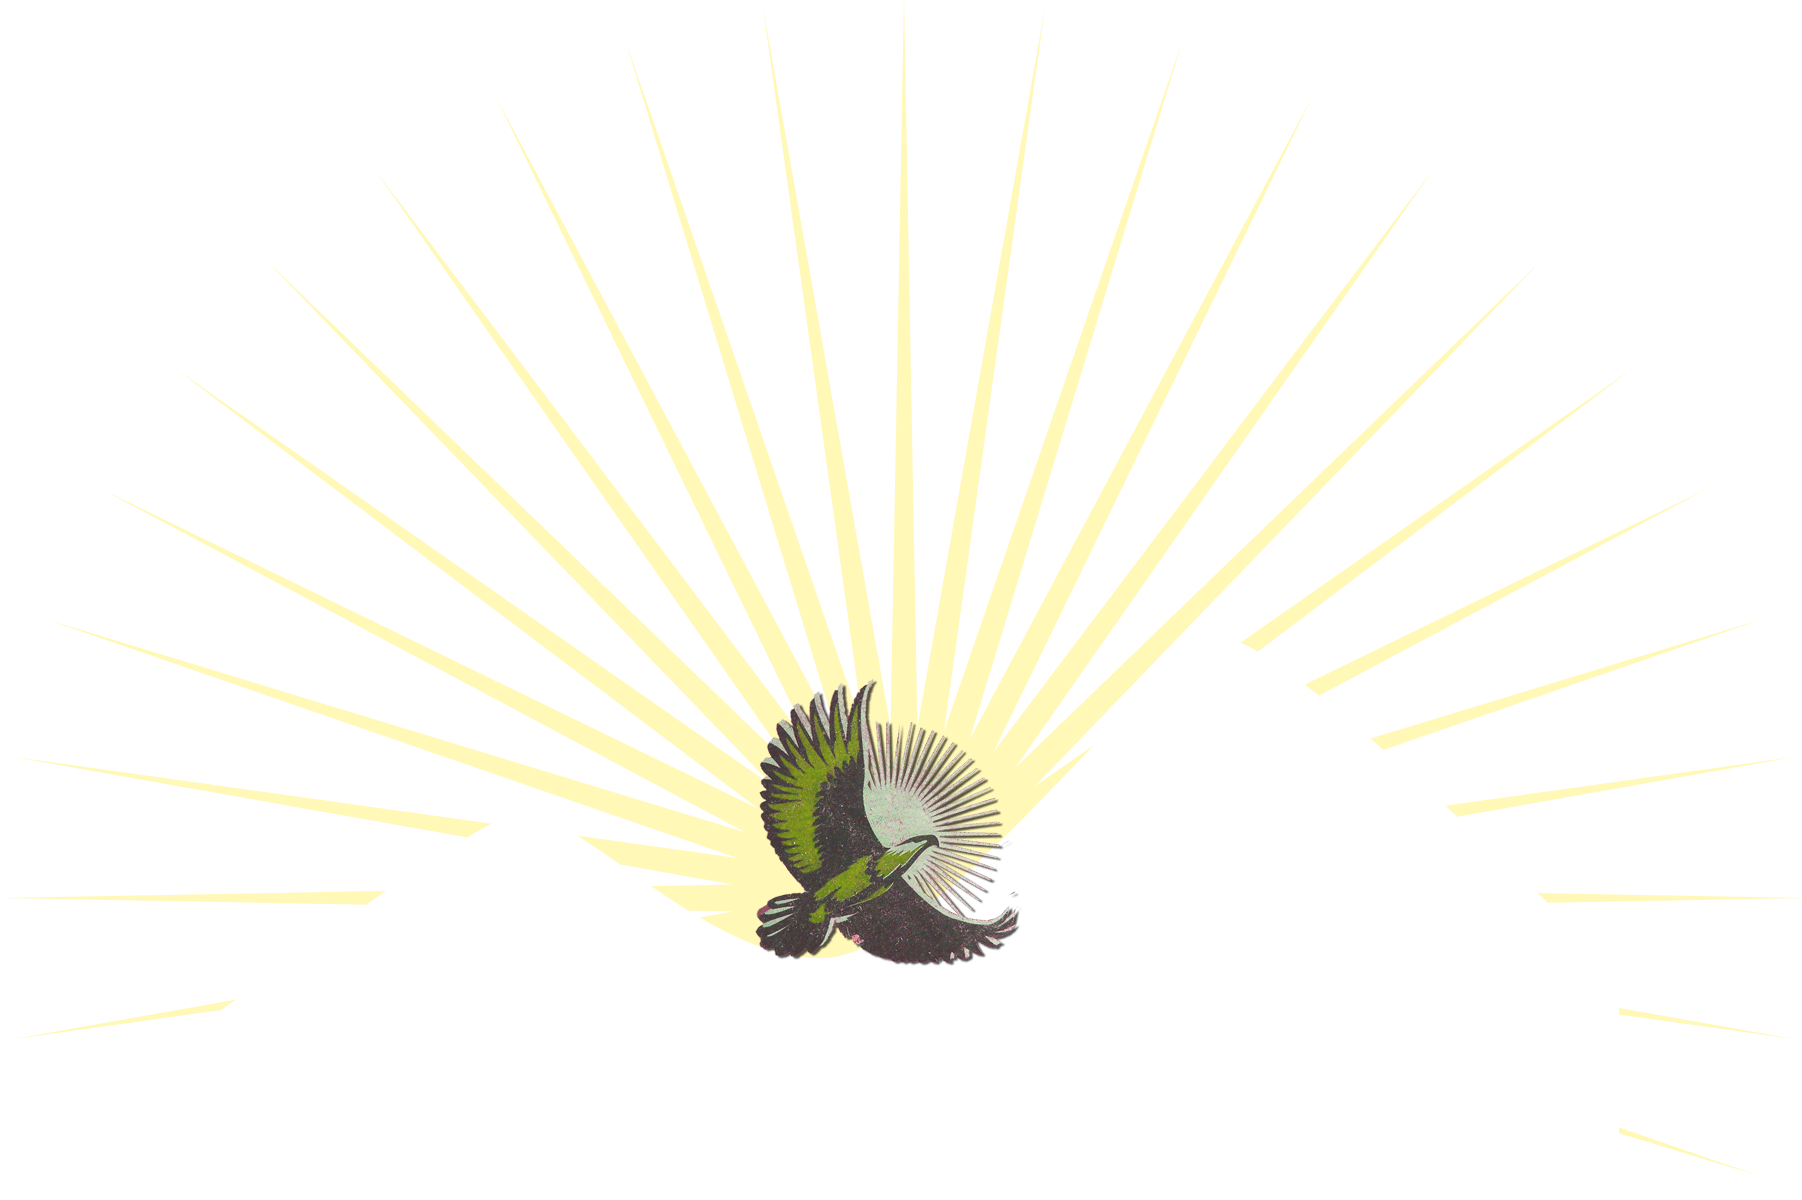
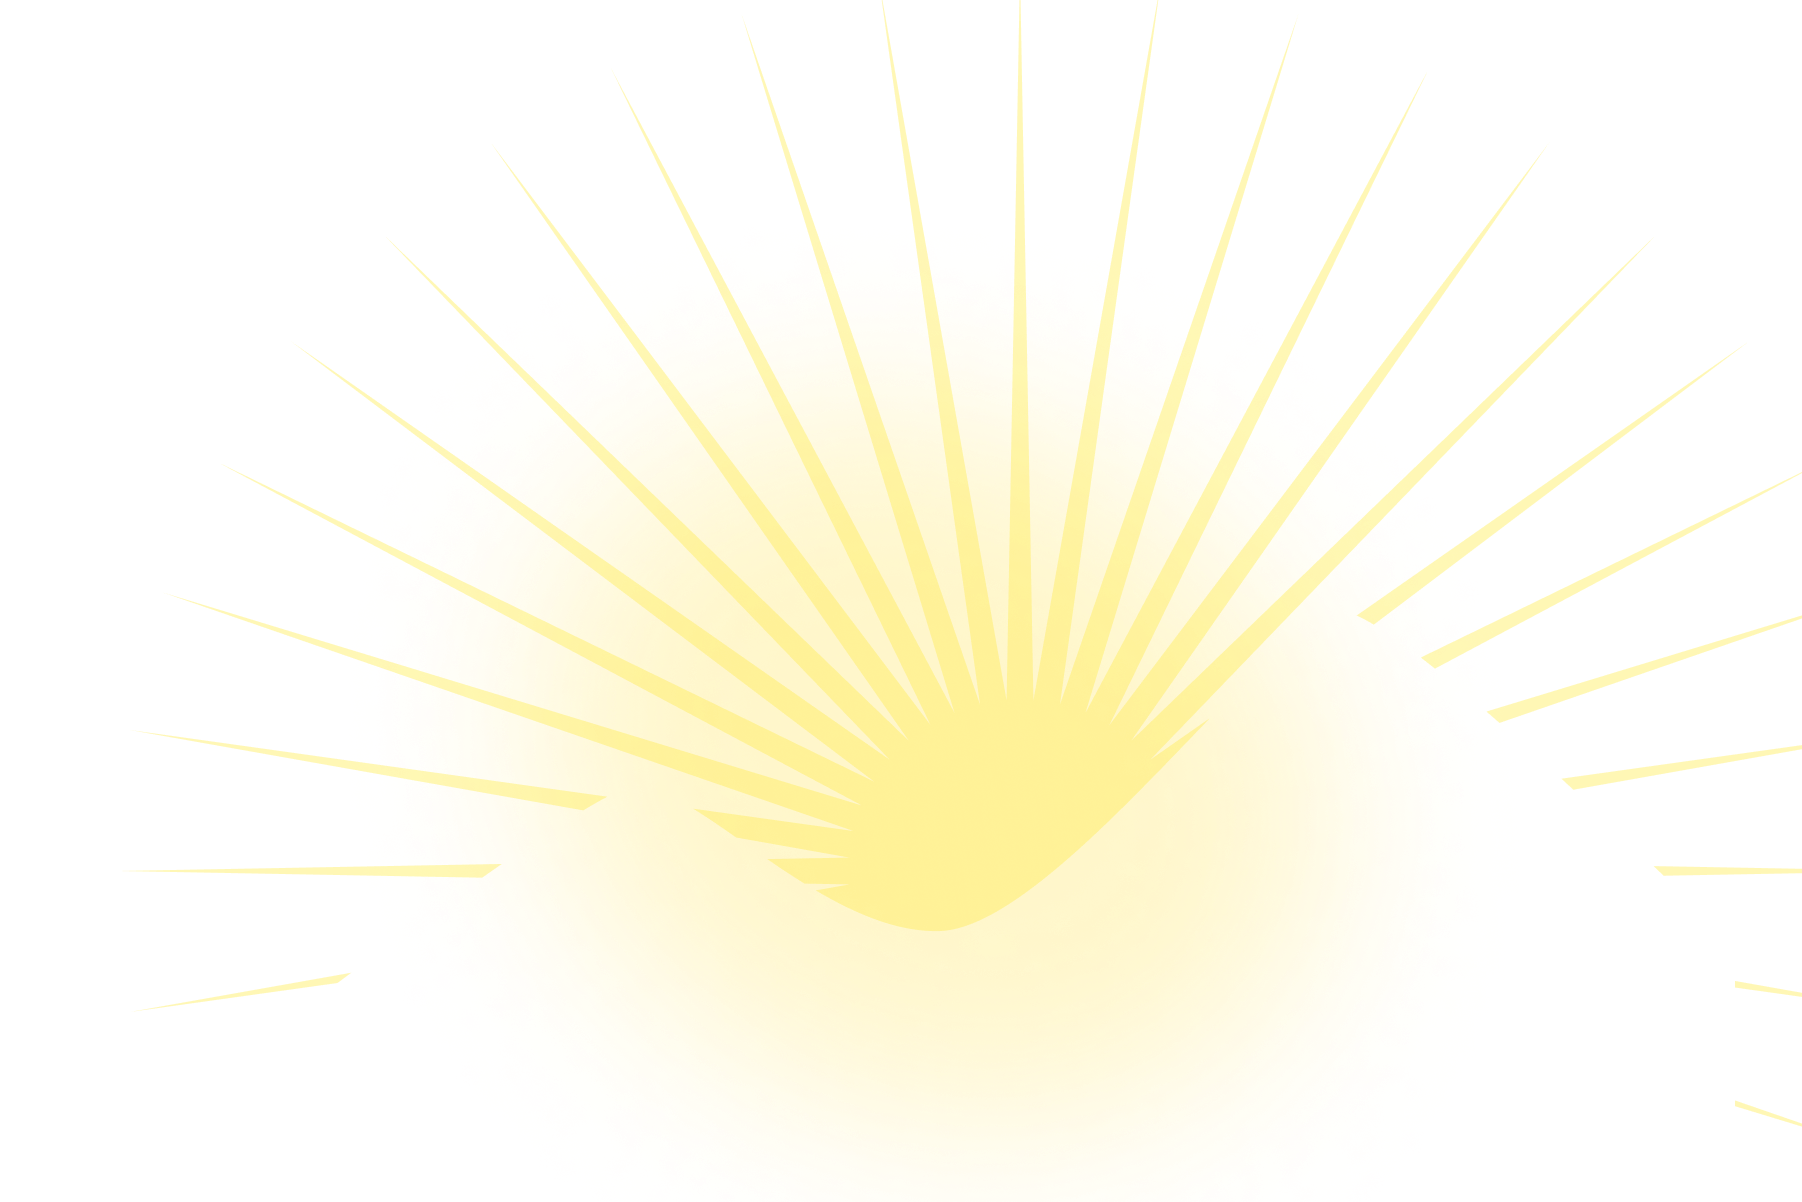
first screen adaptive

diff --git a/first-three-pages/css/original.css b/first-three-pages/css/original.css
@@ -6,8 +6,14 @@
     background:url("../img/sun-header.png") no-repeat center;
     width: 1802px;
     height: 1200px;
-    left: -73px;
-    top: -416px;
+    left: -192px;
+    top: -387px;
+}
+.brand-1-screen-logo{
+    position: absolute;
+    left: 681px;
+    top: 265px;
+    z-index: 2;
 }
 .brand-wrapper.brand-legenda-original .brand-1-screen .text-wrapper h1 .bg-text{
     top: 32px;
@@ -383,6 +389,259 @@ footer .flex .footer-contact li.email::after{
 }
 @media (max-width: 1199px) {
     .brand-wrapper.brand-legenda-original .brand-1-screen .bottle-wrapper .info-wrap {
-        left: 400px;
-    } 
+        left: 350px;
     }
+    .brand-wrapper.brand-legenda-original .brand-1-screen .bottle-wrapper .img-wrap img.bottle{
+        width: 163px;
+        height: auto;   
+    }
+    .hop-right{
+        display: none;
+    }
+    .beer{
+        width: 200px;
+    }
+    .factory{
+        top: 400px;
+        left: 421px;
+        width: 460px;
+    }
+    .brand-wrapper.brand-legenda-original .brand-1-screen .text-wrapper .dop-text .span-2{
+        left: 456px;
+        font-size: 45px;
+    }
+    .brand-wrapper.brand-legenda-original .brand-1-screen .text-wrapper .dop-text .span-3{
+        left: 503px;
+        font-size: 45px;
+    }
+    .brand-wrapper.brand-legenda-original .brand-1-screen .container::before{
+        width: 1602px;
+    }
+    .brand-wrapper.brand-legenda-original .brand-1-screen .text-wrapper .dop-text .span-1{
+        padding-right: 30px;
+        left: 139px;
+        padding-left: 18px;
+        width: 267px;
+        padding-top: 10px;
+        height: 108px;
+        font-size: 65px;
+    }
+    .brand-wrapper.brand-legenda-original .brand-1-screen .text-wrapper h1 .bg-text{
+        left: -258px;
+    }
+    .brand-wrapper.brand-legenda-original .brand-1-screen .text-wrapper h1 .bg-text > span{
+        font-size: 120px;
+    }
+    .brand-wrapper.brand-legenda-original .brand-1-screen .text-wrapper h1 .not-bg-text{
+        left: 287px;
+        font-size: 59px;
+    }
+    .brand-1-screen-logo{
+        left: 595px;
+        top: 346px;
+    }
+    .brand-1-screen-logo img{
+        width: 200px;
+    }
+    .brand-wrapper.brand-legenda-original .brand-2-screen .prlx-wrap > img:nth-child(1){
+        left: 344px !important;
+    }
+    .brand-wrapper.brand-legenda-original .brand-2-screen .prlx-wrap > img:nth-child(2){
+        left: 266px !important;
+    }
+}
+@media (max-width: 991px) {
+    .brand-wrapper.brand-legenda-original .brand-1-screen .text-wrapper .dop-text .span-2{
+        left: 406px;
+        font-size: 45px;
+    }
+    .brand-wrapper.brand-legenda-original .brand-1-screen .text-wrapper .dop-text .span-3{
+        left: 453px;
+        font-size: 45px;
+    }
+    .brand-1-screen-logo{
+        left: 526px;
+    }
+    .brand-wrapper.brand-legenda-original .brand-1-screen .bottle-wrapper .img-wrap img.bottle{
+        display: none;
+    }
+    .factory{
+        display: none;
+    }
+    .brand-wrapper.brand-legenda .brand-1-screen .text-wrapper .dop-text .beer{
+        width: 150px;
+    }
+    .brand-wrapper.brand-legenda-original .brand-1-screen .text-wrapper h1 .bg-text > span{
+        font-size: 80px
+    }
+    .brand-wrapper.brand-legenda-original .brand-1-screen .text-wrapper h1 .bg-text{
+        left: -87px;
+        top: 91px;
+    }
+    .brand-wrapper.brand-legenda-original .brand-1-screen .bottle-wrapper .info-wrap .content .table-flex .tr .td{
+        font-size: 16px !important;
+    }
+    .brand-wrapper.brand-legenda-original .brand-1-screen .bottle-wrapper .info-wrap .content::before{
+        width: 190px;
+    }
+    .brand-wrapper.brand-legenda-original .brand-1-screen .text-wrapper h1 .not-bg-text{
+        left: 257px;
+    }
+    .brand-wrapper.brand-legenda-original .brand-1-screen .text-wrapper .dop-text .span-1{
+        width: 170px;
+        font-size: 42px;
+        line-height: initial;
+        height: 70px;
+        left: 107px;
+        top: 179px;
+    }
+    .brand-wrapper.brand-legenda-original .brand-1-screen .bottle-wrapper .info-wrap .content{
+        padding-left: 0;
+    }
+    .brand-wrapper.brand-legenda-original .brand-1-screen .bottle-wrapper .info-wrap{
+        left: 315px;
+        top: 34px;
+    }
+    .brand-wrapper.brand-legenda-original .brand-1-screen{
+        height: 751px;
+    }
+    .legenda-original-advantage{
+        align-items: flex-start;
+        margin-left: 25px;
+    }
+    .brand-wrapper.brand-legenda-original .brand-2-screen .prlx-wrap > img:nth-child(1){
+        left: 644px !important;
+    }
+    .brand-wrapper.brand-legenda-original .brand-2-screen .prlx-wrap > img:nth-child(2){
+        left: 544px !important;
+    }
+    .brand-wrapper.brand-legenda-original .brand-3-screen .our-text{
+        margin-top: 50px;
+    }
+    /* .brand-wrapper.brand-legenda-original .brand-3-screen{
+        height: 1088px;
+    } */
+    .brand-3-screen-back-img{
+        /* top: 50px; */
+        left: -100px;
+    }
+    .title-legend-original-ul{
+        padding-left: 0;
+    }
+    .title-legend-original-li{
+        padding-left: 0;
+    }
+    .options{
+        padding-left: 0;
+    }
+    /* .brand-wrapper.brand-legenda-original .brand-3-screen .prlx-wrap img:nth-child(1){
+        top: 393px !important;
+    }
+     .brand-wrapper.brand-legenda-original .brand-3-screen .prlx-wrap img:nth-child(2){
+        top: 600px !important;
+    }
+    .brand-wrapper.brand-legenda-original .brand-3-screen .prlx-wrap img:nth-child(3){
+        top: 727px !important;
+    }
+    .brand-wrapper.brand-legenda-original .brand-3-screen .prlx-wrap img:nth-child(4){
+        top: 449px !important;
+    }
+    .brand-wrapper.brand-legenda-original .brand-3-screen .prlx-wrap img:nth-child(5){
+        top: 630px !important;
+    }
+    .brand-wrapper.brand-legenda-original .brand-3-screen .prlx-wrap img:nth-child(6){
+        top: 476px !important;
+    } */
+}
+@media (max-width: 767px) {
+    .brand-wrapper.brand-legenda-original .brand-1-screen .text-wrapper h1 .bg-text{
+        top: -46px;
+        left: -10px;
+    }
+    .brand-wrapper.brand-legenda-original .brand-1-screen .text-wrapper h1 .not-bg-text{
+        top: -113px;
+        left: -4px;
+    }
+    .brand-wrapper.brand-legenda-original .brand-1-screen .text-wrapper .dop-text{
+        top: -155px;
+        margin-top: 0px;
+        left: 0px;
+    }
+    .brand-wrapper.brand-legenda-original .brand-1-screen .text-wrapper .dop-text{
+        top: -155px;
+        margin-top: 0px;
+        left: 0px;
+        display: grid;
+        grid-template-rows: 100% 100% 100% 100%;
+        grid-template-columns: 25% 50%;
+    }
+    .brand-wrapper.brand-legenda .brand-1-screen .text-wrapper .dop-text .beer{
+        grid-row: 1/4;
+    }
+    .brand-wrapper.brand-legenda-original .brand-1-screen .text-wrapper .dop-text .span-1{
+        font-size: 42px;
+        line-height: initial;
+        height: 60px;
+        left: 107px;
+        top: 179px;
+        padding-top: 5px !important;
+    }
+    .brand-wrapper.brand-legenda-original .brand-1-screen .text-wrapper .dop-text .span-2{
+        position: absolute !important;
+        top: 140px !important;
+        left: auto !important;
+        right: -90px !important;
+    }
+    .brand-wrapper.brand-legenda-original .brand-1-screen .text-wrapper .dop-text .span-3{
+        position: absolute !important;
+        top: 180px !important;
+        left: auto !important;
+        right: -150px !important;
+    }
+    .brand-1-screen-logo
+    {
+        /* left: 150px; */
+        left: auto;
+        right: 290px;
+    }
+    .factory{
+        display: block;
+        z-index: -1;
+        top: 301px;
+        left: auto;
+        right: -20px;
+    }
+}
+@media (max-width: 590px) {
+    .brand-1-screen-logo
+    {
+        /* left: 150px; */
+        left: auto;
+        right: 190px;
+    }
+    /* .factory{
+        display: block;
+        z-index: -1;
+        top: 301px;
+        left: auto;
+        right: -20px;
+    } */
+}
+@media (max-width: 479px) {
+    .factory{
+        display: none;
+    }
+    .brand-1-screen-logo
+    {
+        /* display: none; */
+        right: 0px;
+        top: 517px;
+    }
+    .brand-wrapper.brand-legenda-original .brand-1-screen .text-wrapper .dop-text .span-2{
+        right: -30px !important;
+    }
+    .brand-wrapper.brand-legenda-original .brand-1-screen .text-wrapper .dop-text .span-3{
+        right: -80px !important;
+    }
+}
+

diff --git a/first-three-pages/legenda-original.html b/first-three-pages/legenda-original.html
@@ -407,6 +407,9 @@
                     
                 </div>
                 <div class="container">
+                    <div class="brand-1-screen-logo">
+                        <img src="img/orel.png" alt="">
+                    </div>
                     <div class="row">
                         <div class="text-wrapper col-xs-12">
                             <h1>
